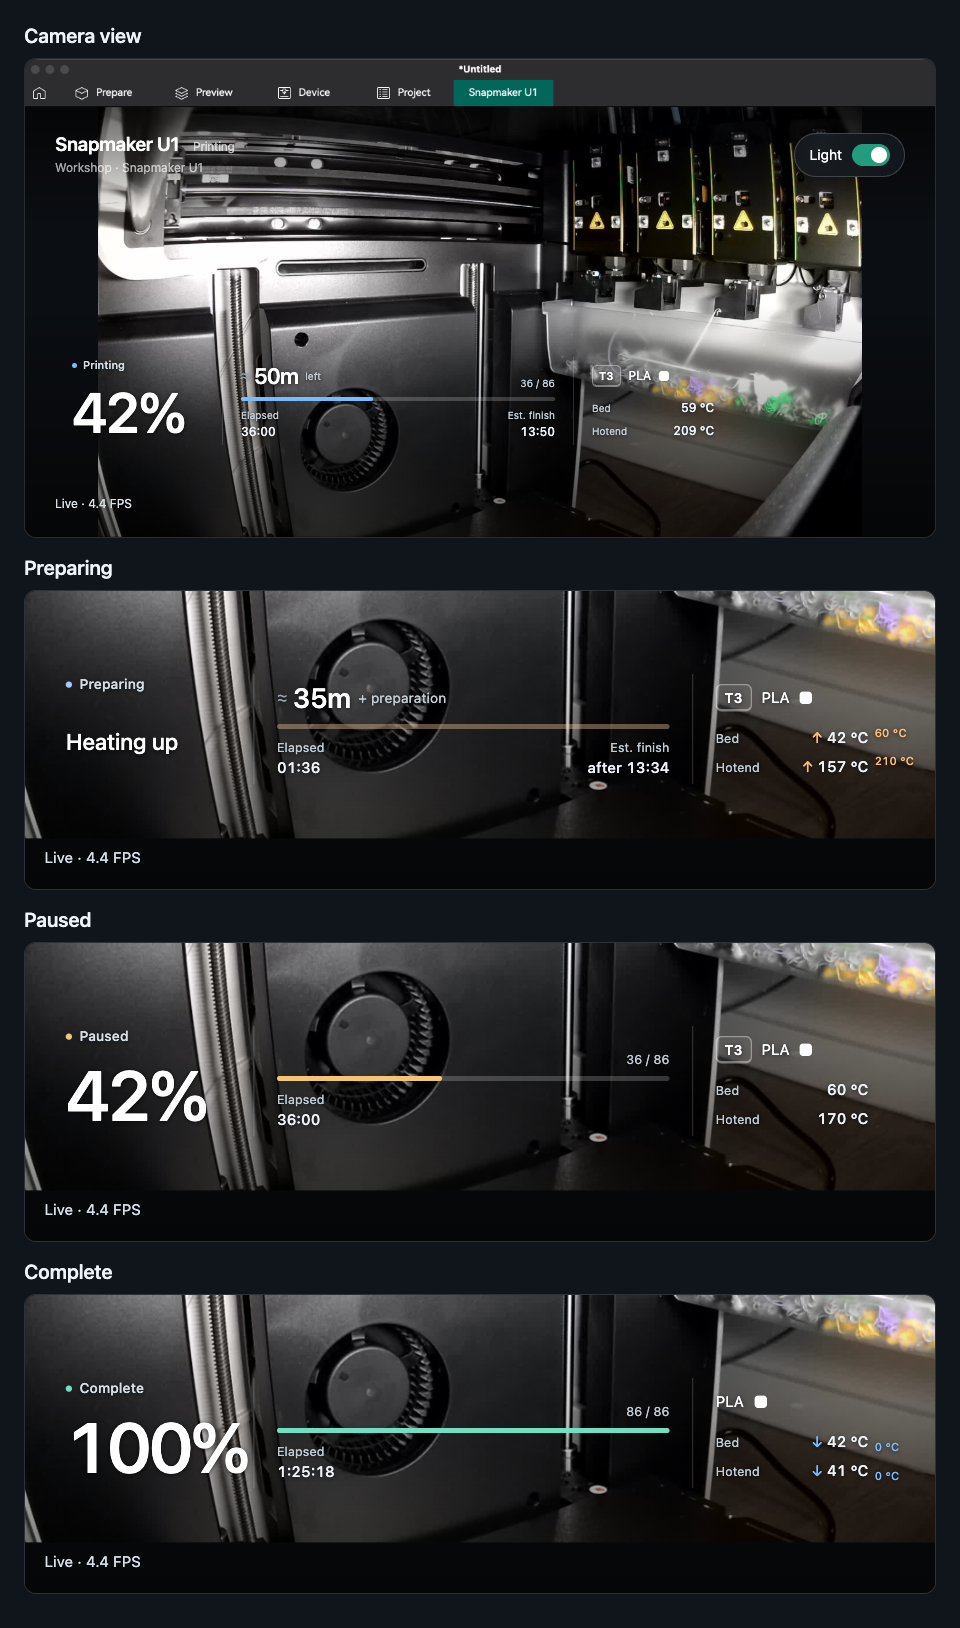
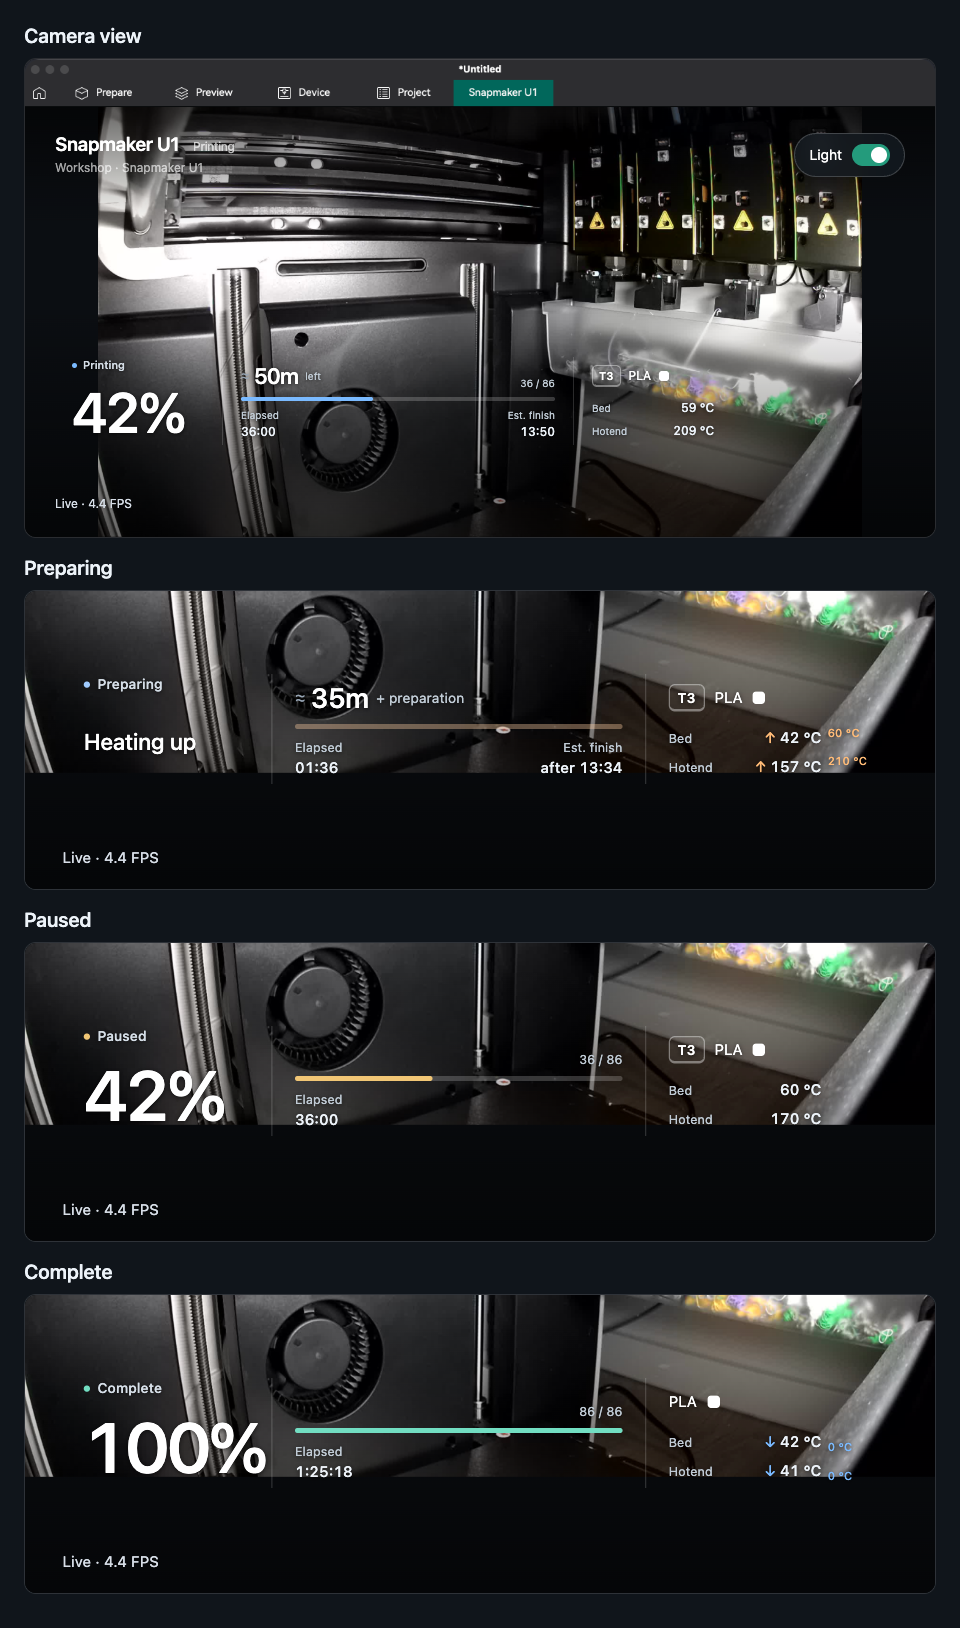
feat: add floating preview state controls and scrollable showcase

diff --git a/scripts/prepare_screenshots.py b/scripts/prepare_screenshots.py
@@ -103,8 +103,11 @@ const screenshotStates = Object.keys(screenshotFixtures);
 const screenshotImage = __IMAGE__;
 let screenshotState = __SCREENSHOT_STATE__, screenshotHandler, screenshotLight = true, screenshotStarted = false;
 function publishScreenshot() {
-  const picker = document.getElementById('preview-state');
-  if (picker) picker.value = screenshotState;
+  const trigger = document.getElementById('preview-state');
+  if (trigger) trigger.title = 'Preview state: ' + screenshotLabels[screenshotState];
+  document.querySelectorAll('[data-preview-state]').forEach(button => {
+    button.setAttribute('aria-pressed', String(button.dataset.previewState === screenshotState));
+  });
   screenshotHandler({type:'target', generation:1, target:'Workshop · Snapmaker U1'});
   screenshotHandler({generation:1, printer:screenshotLabels[screenshotFixtures[screenshotState].state],
     light:screenshotLight, stats:screenshotFixtures[screenshotState],
@@ -124,10 +127,40 @@ window.orca = {
   }
 };
 window.addEventListener('DOMContentLoaded', () => {
-  document.getElementById('preview-state')?.addEventListener('change', event => {
-    if (!screenshotStates.includes(event.target.value)) return;
-    screenshotState = event.target.value;
-    publishScreenshot();
+  const picker = document.getElementById('preview-picker');
+  const trigger = document.getElementById('preview-state');
+  const menu = document.getElementById('preview-menu');
+  const showMenu = (open) => {
+    if (!menu) return;
+    menu.hidden = !open;
+    trigger.setAttribute('aria-expanded', String(open));
+  };
+  picker?.addEventListener('pointerenter', () => showMenu(true));
+  picker?.addEventListener('pointerleave', () => showMenu(false));
+  picker?.addEventListener('focusout', event => {
+    if (!picker.contains(event.relatedTarget)) showMenu(false);
+  });
+  trigger?.addEventListener('click', () => showMenu(menu.hidden));
+  document.querySelectorAll('[data-preview-state]').forEach(button => {
+    button.addEventListener('click', () => {
+      screenshotState = button.dataset.previewState;
+      publishScreenshot();
+      showMenu(false);
+      trigger.focus();
+    });
+  });
+  document.querySelectorAll('[data-preview-step]').forEach(button => {
+    button.addEventListener('click', () => {
+      const index = screenshotStates.indexOf(screenshotState);
+      screenshotState = screenshotStates[(index + Number(button.dataset.previewStep) + screenshotStates.length) % screenshotStates.length];
+      publishScreenshot();
+    });
+  });
+  document.addEventListener('keydown', event => {
+    if (event.key === 'Escape' && menu && !menu.hidden) {
+      showMenu(false);
+      trigger.focus();
+    }
   });
   document.addEventListener('keydown', event => {
     if (event.ctrlKey || event.metaKey || event.altKey || event.target.closest('input,textarea,select,[contenteditable]')) return;
@@ -170,21 +203,36 @@ body { --viewer-top:calc(100vw * .05231144); }
     output.mkdir(parents=True, exist_ok=True)
     for state in STATES:
         (output / (state + ".html")).write_text(page.replace("__SCREENSHOT_STATE__", json.dumps(state)))
-    options = "".join('<option value="' + state + '"' +
-                      (' selected' if state == "preparing" else '') + '>' + label + '</option>'
+    options = "".join('<button type="button" data-preview-state="' + state +
+                      '" aria-pressed="' + str(state == "preparing").lower() + '">' + label + '</button>'
                       for state, label in PREVIEW_LABELS.items())
-    controls = ('<aside id="preview-controls"><label for="preview-state">Preview state</label>'
-                '<select id="preview-state">' + options + '</select>'
-                '<span>Offline sample data</span><a href="showcase.html">Showcase</a></aside>')
+    controls = ('<aside id="preview-controls" aria-label="Offline preview controls">'
+                '<div id="preview-picker"><button type="button" id="preview-state" '
+                'aria-label="Choose preview state" aria-expanded="false" aria-controls="preview-menu" '
+                'title="Preview state: Heating"><span aria-hidden="true">◫</span></button>'
+                '<div id="preview-menu" hidden><div class="preview-panel">'
+                '<strong>Preview state</strong><small>Offline sample data</small>' + options +
+                '<a href="showcase.html">Open showcase ↗</a></div></div></div>'
+                '<button type="button" data-preview-step="-1" aria-label="Previous preview state" '
+                'title="Previous state"><span aria-hidden="true">↑</span></button>'
+                '<button type="button" data-preview-step="1" aria-label="Next preview state" '
+                'title="Next state"><span aria-hidden="true">↓</span></button></aside>')
     preview_style = """<style>
-#preview-controls { position:fixed; inset:0 0 auto; height:56px; padding:10px 20px; display:flex; align-items:center; gap:12px; background:#10151b; border-bottom:1px solid #ffffff20; z-index:10; font:13px/1.4 system-ui; }
-#preview-controls label { color:#b6c4d0; }
-#preview-controls select { min-width:170px; max-width:220px; padding:7px 10px; border:1px solid #ffffff30; border-radius:7px; background:#1b2630; color:#edf3f9; font:inherit; }
-#preview-controls span { margin-left:auto; color:#9aabb8; }
-#preview-controls a { color:#a0cbff; }
-.orca-chrome { top:56px; }
-body { --viewer-top:calc(56px + 100vw * .05231144); }
-@media(max-width:600px) { #preview-controls { padding:10px 12px; } #preview-controls span, #preview-controls a { display:none; } }
+#preview-controls { position:fixed; left:12px; top:40%; transform:translateY(-50%); z-index:10; width:42px; padding:4px; display:grid; gap:2px; border:1px solid #ffffff30; border-radius:24px; background:#17212ef5; box-shadow:0 12px 32px #0008, 0 2px 6px #0006, inset 0 1px #ffffff18; font:12px/1.3 system-ui; }
+#preview-controls button { display:block; width:100%; border:0; border-radius:18px; padding:9px 0; background:transparent; color:#dce8f4; cursor:pointer; font:inherit; }
+#preview-controls button:hover, #preview-controls button:focus-visible { background:#ffffff16; }
+#preview-controls button:focus-visible, #preview-controls a:focus-visible { outline:2px solid #7abaff; outline-offset:1px; }
+#preview-controls button span { font-size:18px; line-height:18px; }
+#preview-picker { position:relative; }
+#preview-controls #preview-state { background:#7abaff20; color:#a0cbff; }
+#preview-menu { position:absolute; left:100%; top:50%; transform:translateY(-50%); padding-left:10px; width:min(242px, calc(100vw - 64px)); }
+.preview-panel { max-height:calc(80dvh - 120px); overflow-y:auto; padding:10px; border:1px solid #ffffff30; border-radius:16px; background:#17212efa; box-shadow:0 16px 40px #0009, 0 2px 6px #0006; }
+.preview-panel strong, .preview-panel small { display:block; padding:0 8px; }
+.preview-panel strong { color:#edf3f9; font-size:12px; }
+.preview-panel small { margin:3px 0 8px; color:#9aabb8; font-size:10px; }
+#preview-controls .preview-panel button { padding:7px 8px; border-radius:7px; text-align:left; }
+#preview-controls .preview-panel button[aria-pressed="true"] { background:#7abaff25; color:#b9daff; }
+#preview-controls .preview-panel a { display:block; margin-top:6px; padding:8px; border-top:1px solid #ffffff20; color:#a0cbff; text-decoration:none; }
 </style>"""
     index = (page.replace("__SCREENSHOT_STATE__", json.dumps("preparing"))
              .replace("</head>", preview_style + "</head>")
@@ -196,14 +244,15 @@ body { --viewer-top:calc(56px + 100vw * .05231144); }
                     for state in STATES[1:])
     (output / "showcase.html").write_text('''<!doctype html><html lang="en"><head><meta charset="utf-8">
 <title>Snapmaker U1 · Camera and print states</title><style>
-* { box-sizing:border-box; } html,body { margin:0; width:960px; height:1628px; overflow:hidden; }
-body { padding:24px; background:#10151b; color:#edf3f9; font:18px system-ui; display:flex; flex-direction:column; gap:18px; }
+* { box-sizing:border-box; } html,body { margin:0; width:100%; min-height:100%; }
+body { max-width:960px; margin:0 auto; padding:24px; background:#10151b; color:#edf3f9; font:18px system-ui; display:flex; flex-direction:column; gap:18px; }
 section { display:flex; flex-direction:column; gap:10px; flex:none; }
 h2 { margin:0; font-size:20px; line-height:24px; font-weight:550; }
 iframe { display:block; border:0; background:#0b0e12; }
 .hero iframe { width:100%; height:480px; border:1px solid #ffffff20; border-radius:12px; }
 .crop { position:relative; height:300px; overflow:hidden; border:1px solid #ffffff20; border-radius:12px; }
-.crop iframe { position:absolute; width:900px; height:650px; left:-18px; bottom:-10px; transform:scale(1.25); transform-origin:bottom left; }
+.crop iframe { position:absolute; width:80%; height:650px; left:0; bottom:-10px; transform:scale(1.25); transform-origin:bottom left; }
+@media(max-width:650px) { body { padding:16px; } .crop { height:420px; } }
 </style></head><body><section class="hero"><h2>Camera view</h2><iframe title="Simulated Orca camera tab" src="printing.html"></iframe></section>''' + tiles + '</body></html>')
     return entry
 

diff --git a/scripts/review_preview.py b/scripts/review_preview.py
@@ -145,8 +145,7 @@ def review(directory, output, states, widths, gifs=False):
             rows = []
             for state in states:
                 client.evaluate("""(async () => {
-                  const p = document.querySelector('#preview-state');
-                  p.value = %s; p.dispatchEvent(new Event('change', {bubbles:true}));
+                  document.querySelector('[data-preview-state=' + CSS.escape(%s) + ']').click();
                   await new Promise(resolve => requestAnimationFrame(() => requestAnimationFrame(resolve)));
                 })()""" % json.dumps(state))
                 row = client.evaluate("""(() => {

diff --git a/docs/development.md b/docs/development.md
@@ -71,7 +71,9 @@ See [release automation](releases.md) for versioning and publishing.
 ## README screenshots
 
 Run `mise run screenshots:prepare`, then open `dist/screenshots/index.html` in a browser.
-Use the preview state picker to inspect all print states, including heating, warm preparation, unavailable estimates, errors, and idle status.
+Hover over the floating control on the left to choose a print state, including heating, warm preparation, unavailable estimates, errors, and idle status.
+Use the arrow buttons below it to move to the previous or next state.
+You can also click the state button or reach it with the keyboard.
 The four-state showcase remains a separate view for README screenshots.
 The four standalone views include a simulated Orca window and the selected Snapmaker U1 tab.
 They use the production camera page with fixed sample data and make no printer requests.
